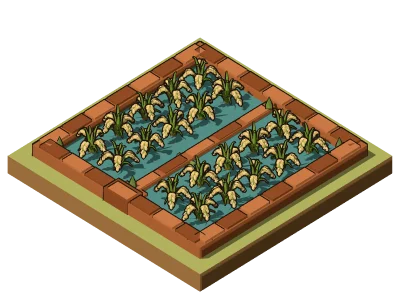
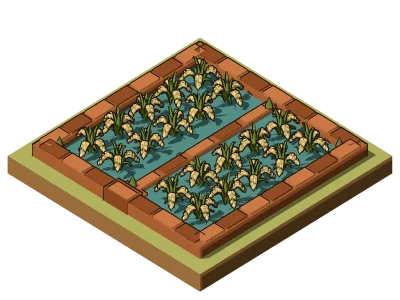
Ruộng nhẹ hơn: khóm lúa ít mặt mà giữ dáng
Mỗi ruộng có cả trăm khóm lúa, hạt thóc chiếm gần 80% số mặt của khóm.
Giữ nguyên số khóm, lá, hạt; chỉ bớt mặt: hạt thóc chóp đôi năm cạnh
(10 mặt, trước cầu 20 mặt, nới to một chút cho bông vẫn mẩy), cuống bông
ba cạnh, lá và cuống hở hai đầu, mô bùn dưới gốc chóp đôi. Hạt to nhất
chừng 3 điểm ảnh khi phóng to hết cỡ nên nhìn gần như y cũ.

Ruộng lúa từ cấp 3: 126 → 71 nghìn tam giác; ruộng nếp 101 → 60 nghìn.
Kinh đô Điện 8: 3,94 → 3,39 triệu tam giác. Vẽ lại ảnh ruộng, ruộng nếp
cho bảng Xây dựng.

Claude-Session: https://claude.ai/code/session_01Wn2t7BY5TgTNSyX5AMrso8

Changed region(s): [[0.39, 0.36, 0.84, 0.75], [0.18, 0.21, 0.63, 0.57]]

diff --git a/src/render/buildings.ts b/src/render/buildings.ts
@@ -503,12 +503,13 @@ const LEAF_BLADE_CACHE = new Map<string, THREE.BufferGeometry>();
 
 /**
  * Phiến lá lúa có sống gân giữa mọc trực tiếp từ gốc nước (`t = 0`) vươn lên và uốn cong tự nhiên ở ngọn (`t = 1`).
+ * Hở hai đầu (gốc chìm trong bùn, ngọn nhọn chỉ một chấm) cho bớt mặt: mỗi ruộng có cả trăm khóm lúa.
  */
 function curvedLeafBladeGeo(wBase: number, h: number, bendOut: number, bendDrop: number): THREE.BufferGeometry {
   const key = `${wBase.toFixed(3)}_${h.toFixed(3)}_${bendOut.toFixed(3)}_${bendDrop.toFixed(3)}`;
   let cached = LEAF_BLADE_CACHE.get(key);
   if (!cached) {
-    const geo = new THREE.CylinderGeometry(wBase * 0.1, wBase, 1, 3, 4);
+    const geo = new THREE.CylinderGeometry(wBase * 0.1, wBase, 1, 3, 4, true);
     const pos = geo.attributes.position;
     for (let i = 0; i < pos.count; i++) {
       const vx = pos.getX(i);
@@ -553,14 +554,20 @@ function stemCurvePoint(
   return { cz, cy, dz, dy, ny: -dz / len, nz: dy / len };
 }
 
-const UNIT_GRAIN_GEO = new THREE.SphereGeometry(1, 5, 3).toNonIndexed();
+/**
+ * Hạt thóc: chóp đôi năm cạnh, nhọn hai đầu như hạt thóc thật, 10 mặt. Hạt to nhất chừng 3 điểm ảnh khi phóng to hết
+ * cỡ, nên cầu nhiều mặt hơn nhìn không khác mà mỗi ruộng nặng thêm cả chục nghìn tam giác. Chóp đôi gọn hơn cầu cùng
+ * bán kính, nên nới ra một chút cho bông lúa vẫn mẩy như cũ.
+ */
+const UNIT_GRAIN_GEO = new THREE.SphereGeometry(1, 5, 2).scale(1.15, 1.12, 1.15).toNonIndexed();
 const PANICLE_CACHE = new Map<string, { stem: THREE.BufferGeometry; g1: THREE.BufferGeometry; g2: THREE.BufferGeometry }>();
 
 function getPanicleGeos(stemH: number, span: number, drop: number, grainR: number) {
   const key = `${stemH.toFixed(3)}_${span.toFixed(3)}_${drop.toFixed(3)}_${grainR.toFixed(3)}`;
   let cached = PANICLE_CACHE.get(key);
   if (!cached) {
-    const stemGeo = new THREE.CylinderGeometry(0.013, 0.019, 1, 4, 5);
+    // Cuống mảnh chừng một điểm ảnh: ba cạnh, hở hai đầu (gốc trong bùn, ngọn khuất trong hạt).
+    const stemGeo = new THREE.CylinderGeometry(0.013, 0.019, 1, 3, 5, true);
     const sPos = stemGeo.attributes.position;
     for (let i = 0; i < sPos.count; i++) {
       const vx = sPos.getX(i);
@@ -656,8 +663,8 @@ export function riceClump(p: ShapeBuilder, x: number, z: number, h: number, lv: 
   const grainColAlt = new THREE.Color(0xb6ca40).lerp(new THREE.Color(C.gold), Math.min(1, maturity * 1.35)).getHex();
   const y0 = 0.055;
 
-  // Mô đất bùn nhỏ dưới chân khóm mạ
-  p.sphere(0.056, C.soil, x, y0, z, [1.35, 0.36, 1.35], 5);
+  // Mô đất bùn nhỏ dưới chân khóm mạ: chỉ nhô khỏi mặt nước một chút nên dựng chóp đôi ít mặt.
+  p.add(new THREE.SphereGeometry(0.056, 5, 2), C.soil, x, y0, z, [0, 0, 0], [1.35, 0.36, 1.35]);
 
   // 1. Tầng lá mạ dưới (3 lá): mọc từ gốc, uốn cong hình vòm rủ mũi lá xuống xung quanh gốc
   for (let i = 0; i < 3; i++) {
@@ -2623,7 +2630,7 @@ export const LAT = 0xd8c48a;
  */
 export function nepClump(p: ShapeBuilder, x: number, z: number, h: number, seedAngle = 0): void {
   const y0 = 0.055;
-  p.sphere(0.056, C.soil, x, y0, z, [1.35, 0.36, 1.35], 6);
+  p.add(new THREE.SphereGeometry(0.056, 6, 2), C.soil, x, y0, z, [0, 0, 0], [1.35, 0.36, 1.35]);
 
   // 1. Tầng lá mạ dưới (4 lá): mọc từ gốc, uốn vòm rủ xuống xung quanh gốc
   for (let i = 0; i < 4; i++) {

diff --git a/src/render/anhCongTrinhDau.ts b/src/render/anhCongTrinhDau.ts
@@ -44,8 +44,8 @@ export const ANH_DAU: Record<string, string> = {
   luy: 'feee63c8',
   nhaSan: '7846ae7a',
   rom: '1cd29a52',
-  ruong: 'ff969911',
-  ruongNep: 'b5c0cb1f',
+  ruong: 'ea919518',
+  ruongNep: '923e7806',
   sanTrong: '511e76bc',
   thanh: 'e2f369d5',
   thoHo: '6f42190c',
